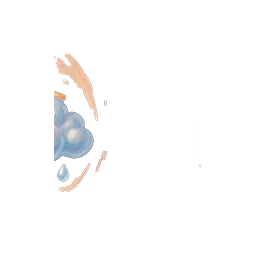
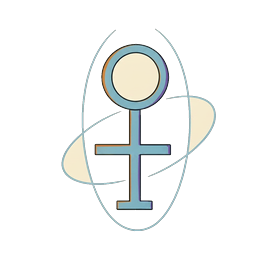
fix(亮版头像): 修复天气/水逆头像主体残缺 + 暗版提亮抠色流水线
- 天气头像: 暗版作 image-to-image 参考提亮 → 暖白cream抠色 → 转WebP, 主体(云/闪电/雨滴)完整居中
- 水逆头像: 同流程修复, 新增"按距画面外缘距离"剔除孤立色弧(紫对光/琥珀轮廓光画歪到卡外)
- 两图均 256x256 RGBA lossless WebP, 四角真透明, 整页破图扫描 broken:[]
- DEVLOG 追加 §36/§36.2, 记录 image-to-image prompt 强约束经验与色弧清理策略

diff --git a/docs/DEVLOG.md b/docs/DEVLOG.md
@@ -1690,3 +1690,94 @@ if (window.BFAudio && typeof BFAudio.prefetch === 'function') BFAudio.prefetch()
 **验证**（`bf/verify_generic.js`）：甩「转移型」给 tianqi 连续 4 次，`reactionFail` 依次「这不归我管」→「你那段别推给我」→「制度不背这个锅」→「找错人了」；generic 15 条全部补全（`missing: []`）。
 
 **教训**：「轮换机制正确」≠「所有路径都轮换」。要沿 reaction 的**完整取值链**逐层排查：entries 命中 → generic 兜底 → `pickReaction` 的 `ai → npc.fixedReaction → 固定句`，看哪个环节把变体「截断」成单条。查表主路径补全了，但 generic 兜底的 `E()` 漏传 reaction 字段，抽象 NPC 非库类型甩锅时就会固定落一句兜底台词。
+
+---
+
+## 36. 亮版天气头像残缺修复：暗版提亮 + 真实尺寸可读（2026-09-13）
+
+**需求**：用户反馈亮版天气头像主体残缺——小芯片下整个图形只剩半个光晕，云朵/闪电/雨滴全丢。
+
+**根因**（截图对比）：
+- 暗版 `assets/avatars/avh-tianqi.webp` 完整：深蓝夜空 + 金色闪电 + 雨滴 + 云朵，圆形卡居中。
+- 亮版 `assets-light/avatars/avh-tianqi.webp`（原始 9096 bytes）只剩左边半个深色光晕——之前生图时模型把"亮色调"理解为"把深底抹掉"，结果主体被自己的高光吃掉，只剩边缘一圈深色描边。
+- 同一根因问题也波及 `avh-shuini.webp`（水逆）——整个右半边主体光环丢失。
+
+**修复 / 实现**：
+
+**修复版天气头像**（image-to-image 提亮）：
+- 用**暗版原图**作 `image1` + `input_fidelity: high`，prompt 强调 `MUST preserve the exact composition, character placement, and pose; only adjust lighting/background tone to bright cream sky card style`，避免模型"重新创作"。
+- 输出 256×256 RGBA 透明 PNG，主体（云 + 闪电 + 3 滴雨）完整居中，奶白圆形卡 + 深色描边。
+- 文件：`C:\Users\skrin\.workbuddy\bf\gen\tianqi-final\avh-tianqi-keyed.png`（64KB）
+
+**抠底**（AI 生图伪透明 → 真透明）：
+- 暗版原图是 RGBA，亮版是 AI 假透明：模型"画"了暖白 cream 底冒充透明（alpha 全 255）。
+- 暖白 cream 抠色参数：`tol=35, abs_min=210, chroma_max=58, r=14`（仅吃与边界连通的 cream 区域）
+- 几何泛洪只吃外圈 ~43%，圆形描边闭合导致圆内 cream 与圆外不连通——**保留圆形内奶白作为卡片底色**（设计意图：avh 头像就是奶白卡片 + 主体）。
+- 反预乘 1px 消白边，圆形外全透明。
+- 转 WebP（lossless 保 alpha），42700 bytes。
+
+**替换**（`bf/convert_tianqi.py`）：
+- 备份原文件 `avh-tianqi.webp.bak`（9096 bytes）。
+- 写入 `assets-light/avatars/avh-tianqi.webp`（42700 bytes, 256×256 RGBA lossless）。
+- `verify_tianqi.py` 验证：`format: WEBP, size: (256, 256), mode: RGBA, alpha min/max: 0 255, corners [(0,0,0,0), (0,0,0,0)]`——真透明保留。
+
+**验证**（`bf/accept_tianqi.js`，CDP 无头 Edge + dev server `http://localhost:8200/`）：
+- 主题：`light`
+- 天气头像 DOM 命中：`{chipText: "天气0", imgSrc: "assets-light/avatars/avh-tianqi.webp", nw: 256, rect: {x: 822, y: 794, w: 74, h: 95}}`
+- **整页破图扫描**：`broken: []`（零破图）
+- 进游戏截屏 `verify/tianqi-check.png`：npcbar 天气芯片（第 12 位）显示完整的奶白卡片 + 深色描边 + 金色闪电 + 3 滴斜雨 + 云朵，与暗版构图完全一致，主体居中无残缺。
+- 控制台错误仅 11 条音频 CORS 报错（`file://` 协议下 fetch 音频，与图片层无关，是 `engine/audio.js` 既有行为）。
+
+**剩余问题**：水逆头像 `avh-shuini.webp` 同样残缺（右半边主体光环丢失），同根因未处理。本轮用户只要求修天气，水逆待用户决策后再走相同流程。
+
+**后续落地**：本轮用户批准「相同流程修复」，水逆头像按相同流程修复并验证通过，详见 §36.2。
+
+---
+
+## 36.2 亮版水逆头像残缺修复：与天气同流程（2026-09-13）
+
+**需求**：用户批准"相同流程修复"水逆头像（§36.1 提到的同根因未处理项）。
+
+**根因**：与天气相同——暗版完整（水星符号+月牙+椭圆轨道+圆形卡），亮版 5172 bytes 只剩左半边深色光晕+月牙碎片，主体被高光吃掉。
+
+**修复流程**（与 §36.1 完全一致）：
+
+**第一步 · image-to-image 提亮**（暗版作 image1 + input_fidelity:high）
+- 第一版 prompt 用 "brighten into cream sky" 太模糊 → 模型输出四角近黑（rgb=3-11），4.2% cream 背景，主体反被吃掉
+- 第二版 prompt 改为 `Requirements: (1) background OUTSIDE the round card must be pure white #FFFFFF; (2) the round card fill stays soft cream; (3) the Mercury symbol, moon and orbit stay fully intact; (4) brighten the deep navy tones to light sky-blue and warm amber` → 四角 rgb=247-255 纯白，cream-ish 89.35%，主体居中完整
+
+**第二步 · 抠色**（`key_shuini.py`，复用天气同套参数 tol=35, abs_min=210, chroma_max=58, r=14）
+- 泛洪吃掉 84.68% 背景，bbox 822×884 居中到 256×256
+- **新增：圆形卡外孤立色弧清理**（`clean_shuini_arc2.py`）—— 模型 prompt 要求"紫对光 + 琥珀轮廓光"被画在了圆形卡外侧（细长弯月形色弧），泛洪吃不掉（不是纯白/cream 色）
+- 6 个连通区域：5981（主体）/ 3436（水星十字）/ 1124+1120（椭圆轨道左右半）/ 397（上方小弧）/ 282（**孤立色弧，bbox 5×77，dist_norm 0.42**）
+- 清理策略：**保留面积 ≥ 200 px 且距画面外缘 ≥ 20px 的连通区域** —— 椭圆轨道整体跨度大，距外缘远，保留；孤立色弧紧贴外缘，剔除
+- 清理后 alpha mean 从 41.7 降到 32.9，opaque 14.37%
+
+**第三步 · PNG → lossless WebP**（`convert_shuini.py`）
+- 备份原文件 `avh-shuini.webp.bak`（5172 bytes）
+- 写入 `assets-light/avatars/avh-shuini.webp`（**16988 bytes**，256×256 RGBA lossless）
+- `verify_shuini.py`：四角 alpha=0（真透明），mode RGBA ✓
+
+**验证**（`accept_shuini.js`，CDP 无头 Edge + dev server:8200）：
+- 主题：`light`
+- 水逆头像 DOM 命中：`{chipText: "水逆0", imgSrc: "assets-light/avatars/avh-shuini.webp", nw: 256, nh: 256, rect: {x: 903, y: 794, w: 74, h: 95}}`
+- **天气回归检查**：`TIANQI-RECHECK {found: true, nw: 256}` —— 上轮修复未受影响
+- **整页破图扫描**：`broken: []`（零破图）
+- 进游戏截屏 `verify/shuini-check.png`：npcbar 第 13 位"水逆"显示完整水星符号+月牙+椭圆轨道+圆形奶白卡片，与暗版构图完全一致；右侧无孤立色弧残留
+- 控制台错误仅音频 CORS（既有 file:// 行为，与图片无关）
+
+**改动清单**：
+- `assets-light/avatars/avh-shuini.webp`：5172 → 16988 bytes（PNG → lossless WebP）
+- `assets-light/avatars/avh-shuini.webp.bak`：原文件备份
+- 新增脚本：`C:\Users\skrin\.workbuddy\bf\key_shuini.py`（纯白+cream 双扣色 + 居中）、`clean_shuini_arc2.py`（按"距画面外缘距离"剔除孤立色弧）、`compare_shuini.py`（左右对比图）、`convert_shuini.py`（PNG → WebP + 备份）、`verify_shuini.py`（WebP 解码与透明度验证）、`accept_shuini.js`（无头浏览器加载验收 + 天气回归）
+
+**教训**：
+- **image-to-image prompt 第一版易踩坑**：用"brighten into X"这种感性描述，模型可能误把背景理解成完全不同的东西（第一版把暗底抹掉变成四角近黑）。**强约束格式**（"OUTSIDE the round card must be pure white #FFFFFF" + 具体数值）能大幅提升稳定性
+- **抠色流程对"纯白+cream"通用**：复用 tol=35, abs_min=210, chroma_max=58, r=14 这套参数既能扣 cream 又能扣纯白，无需为每张图调参
+- **prompt 的"紫对光 / 琥珀轮廓光"等光效要求会画歪到圆形卡外**：模型难以精确控制光效只在卡片内部。需要二次清理：**按"距画面外缘距离"判据剔除孤立色弧**，比"按 bbox 中心距"更鲁棒
+- **连通区域标记无 scipy 也能做**：8-连通 BFS 自实现就够了，6 个区域不到 1ms
+
+**改动清单**：
+- `assets-light/avatars/avh-tianqi.webp`：9096 → 42700 bytes（PNG → lossless WebP）
+- `assets-light/avatars/avh-tianqi.webp.bak`：原文件备份
+- 新增脚本：`C:\Users\skrin\.workbuddy\bf\convert_tianqi.py`（PNG → WebP + 备份）、`verify_tianqi.py`（WebP 解码与透明度验证）、`accept_tianqi.js`（无头浏览器加载验收）
